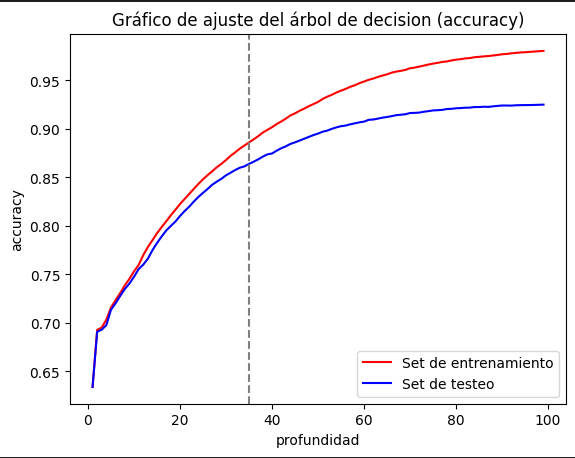
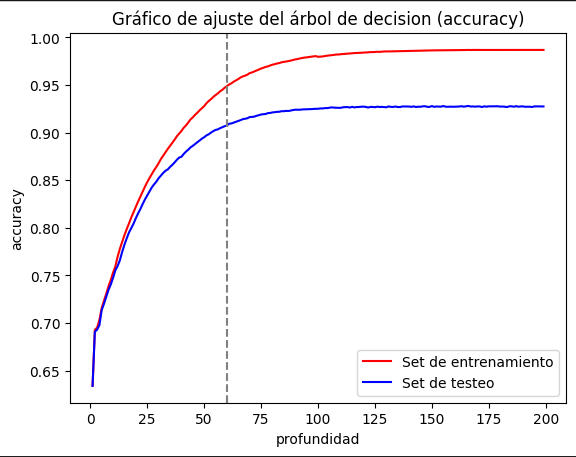
changes in readme

diff --git a/README.md b/README.md
@@ -50,5 +50,5 @@ Para elegir una profundidad del arbol optima, Se realizaron pruebas con profundi
 
 ![enter image description here](/_src/recall_score.png)
 
-En las graficas se puede observar que los puntajes del test se separan cada vez mas con profundidades mayores a 35, por lo que se eligio esta como la profundudad para usar en el modelo de arbol de deciciones.
-Como resultado el mdelo arrojo un promedio de accuracy de  0.86, y recall de  0.85.
+En las graficas se puede observar que los puntajes del test se separan cada vez mas con profundidades mayores a 60, por lo que se eligio esta como la profundudad para usar en el modelo de arbol de deciciones.
+Como resultado el mdelo arrojo un promedio de accuracy de  0.909, y recall de  0.898.
